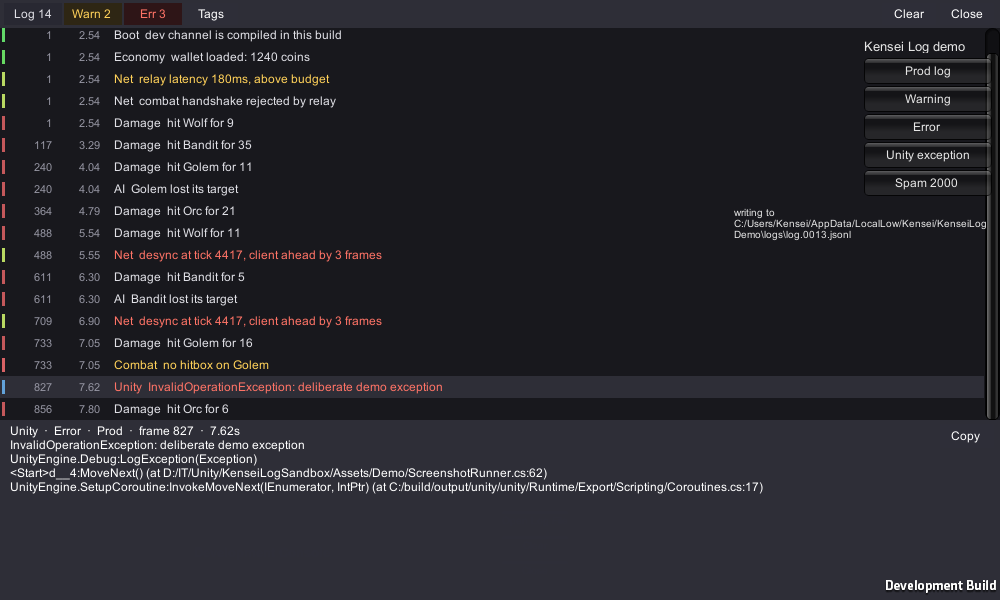
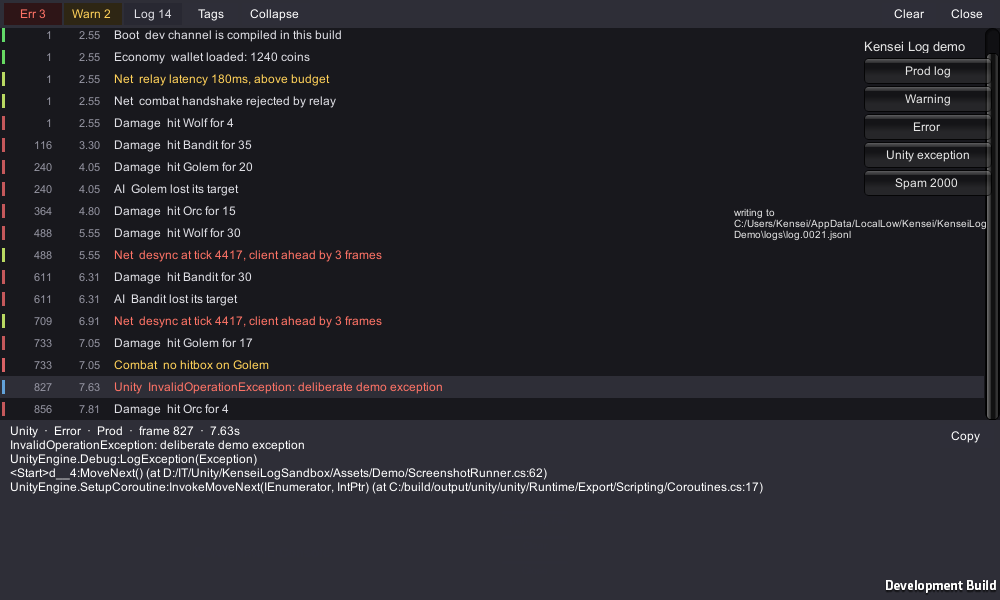
Show the levels in one order, closed or open
The bubble reads errors, warnings, logs - worst first, chosen on
purpose. Tap it and the viewer's bar read logs, warnings, errors: the
same three counts, reversed under the thumb that had just opened them.
Each had an order of its own, written out separately, and nothing tied
the two together.

Both draw from one list now, so they cannot drift apart again. The
overlay screenshots that show the bar are retaken from a build.

Claude-Session: https://claude.ai/code/session_01RKcpJtepyYJ53yMpDgLPdX

diff --git a/Runtime/Overlay/LogOverlay.cs b/Runtime/Overlay/LogOverlay.cs
@@ -53,6 +53,11 @@ namespace KenseiLog {
         // Uneven on purpose: three lines of text, not a stack of equal bars, which would read as
         // a hamburger menu.
         private static readonly float[] _logBarWidths = { 1f, 0.62f, 0.84f };
+
+        // Worst first, in the bubble and in the bar alike. They are the same three counts, and
+        // with an order of their own each, opening the bubble laid them out the other way round
+        // under the thumb that had just tapped it.
+        private static readonly LogLevel[] _levelOrder = { LogLevel.Error, LogLevel.Warning, LogLevel.Log };
         private static readonly string[] _countShapes = { "999", "9.9k", "999k", "999M", "1B+" };
         private static readonly Comparison<TagRow> _byTagName = (left, right) => string.CompareOrdinal(left.Tag, right.Tag);
         private static readonly string[] _levelCaptions = { "Log", "Warn", "Err" };
@@ -494,8 +499,8 @@ namespace KenseiLog {
             bool tapped = _bubbleGesture.Opens(GUI.Button(rect, GUIContent.none, _button));
 
             float x = rect.x + BubblePad;
-            for (int level = 2; level >= 0; level--) {
-                DrawChip(x, rect.y, level);
+            for (int i = 0; i < _levelOrder.Length; i++) {
+                DrawChip(x, rect.y, (int)_levelOrder[i]);
                 x += IconSize + IconGap + _digitSlot + ChipGap;
             }
 
@@ -650,9 +655,9 @@ namespace KenseiLog {
                 _levelLabelsDirty = false;
             }
 
-            x += LevelButton(x, LogLevel.Log);
-            x += LevelButton(x, LogLevel.Warning);
-            x += LevelButton(x, LogLevel.Error);
+            for (int i = 0; i < _levelOrder.Length; i++) {
+                x += LevelButton(x, _levelOrder[i]);
+            }
 
             GUI.color = _showTags ? new Color(0.5f, 0.9f, 1f) : Color.white;
             if (GUI.Button(new Rect(x, 3f, 54f, BarHeight - 6f), "Tags", _button)) {

diff --git a/README.md b/README.md
@@ -188,7 +188,7 @@ LogCore.Configure(config);
 ![The collapsed bubble](Documentation~/images/overlay-bubble.png)
 ![The overlay's tag list](Documentation~/images/overlay-tags.png)
 
-A small bubble appears in the corner, holding all three counts at once: errors, warnings, logs, always in that order and always all three. Each carries a mark rather than a word — a round badge with an exclamation in it, a triangle, three lines — so the level is told by silhouette before colour, which is what survives a screenshot pasted into a bug report in greyscale. A level with nothing to report keeps its place, goes grey and drops its number, so the badge never changes shape as it counts. The worst level present, if it is a warning or an error, is inverted onto a plate of its own colour: that is the part the corner of the eye catches without reading anything. Logs never light it up — a badge that brightens because the game logged at all is the panel nobody asked for. Past 999 a count is shortened rather than capped — `1.2k`, `47k`, `3M` — and it counts every record of that level, including the ones a burst pushed out of the overlay's buffer before anything could read them. Drag it anywhere, tap it to open the viewer: level toggles with counts, a tag list, **Collapse** to fold repeats into one row with a count beside it, tap a row for its detail, and Copy to put the whole thing on the clipboard.
+A small bubble appears in the corner, holding all three counts at once: errors, warnings, logs, always in that order and always all three. Each carries a mark rather than a word — a round badge with an exclamation in it, a triangle, three lines — so the level is told by silhouette before colour, which is what survives a screenshot pasted into a bug report in greyscale. A level with nothing to report keeps its place, goes grey and drops its number, so the badge never changes shape as it counts. The worst level present, if it is a warning or an error, is inverted onto a plate of its own colour: that is the part the corner of the eye catches without reading anything. Logs never light it up — a badge that brightens because the game logged at all is the panel nobody asked for. Past 999 a count is shortened rather than capped — `1.2k`, `47k`, `3M` — and it counts every record of that level, including the ones a burst pushed out of the overlay's buffer before anything could read them. Drag it anywhere, tap it to open the viewer: level toggles with the same counts in the same order, a tag list, **Collapse** to fold repeats into one row with a count beside it, tap a row for its detail, and Copy to put the whole thing on the clipboard.
 
 A level's count is how many records of it were written, not how many the viewer still holds — a burst longer than the buffer is counted in full and listed in part, so a toggle reading `1.2k` above five hundred rows is the two of them answering different questions.
 

diff --git a/CHANGELOG.md b/CHANGELOG.md
@@ -37,6 +37,9 @@ All notable changes to this package are documented here. The format follows
 
 ### Fixed
 
+- The open viewer's level toggles run errors, warnings, logs - the order the bubble shows them
+  in. They ran the other way, so opening the bubble reversed the three counts under the thumb
+  that had just tapped it. Both are drawn from one order now, so they cannot drift apart again.
 - Every file a session fills now names the same session. The header's identity and start time
   were minted per file, so a run long enough to rotate looked, from its files, like two runs -
   and after a restart nothing could put them back together, since only the editor's
